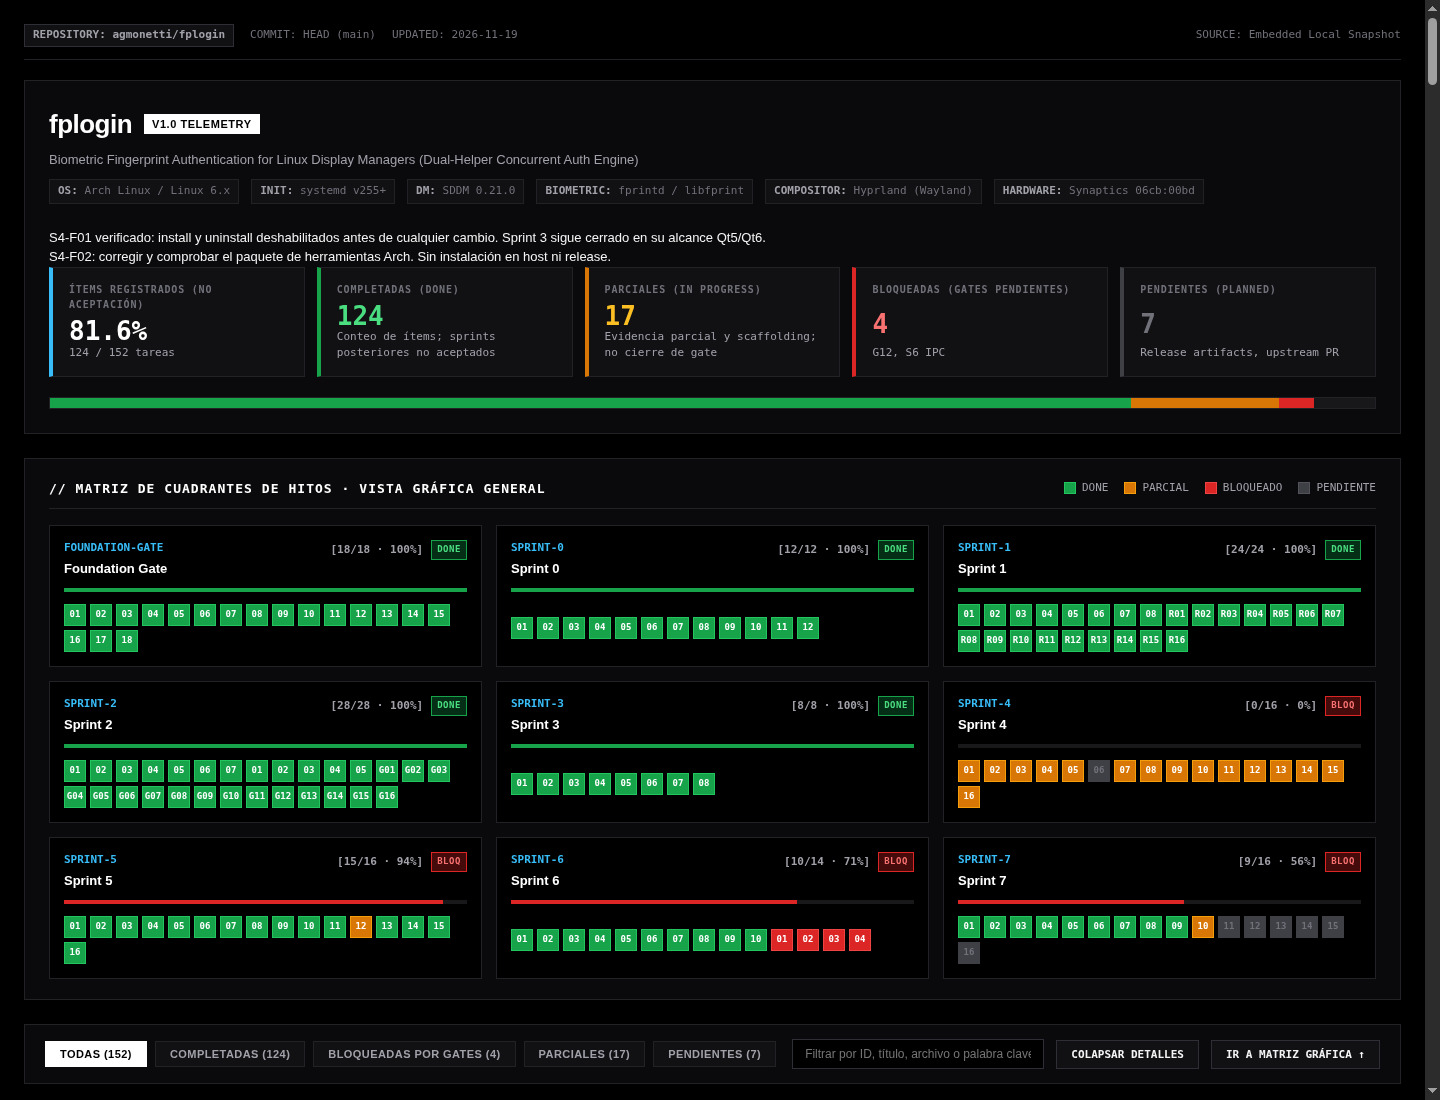
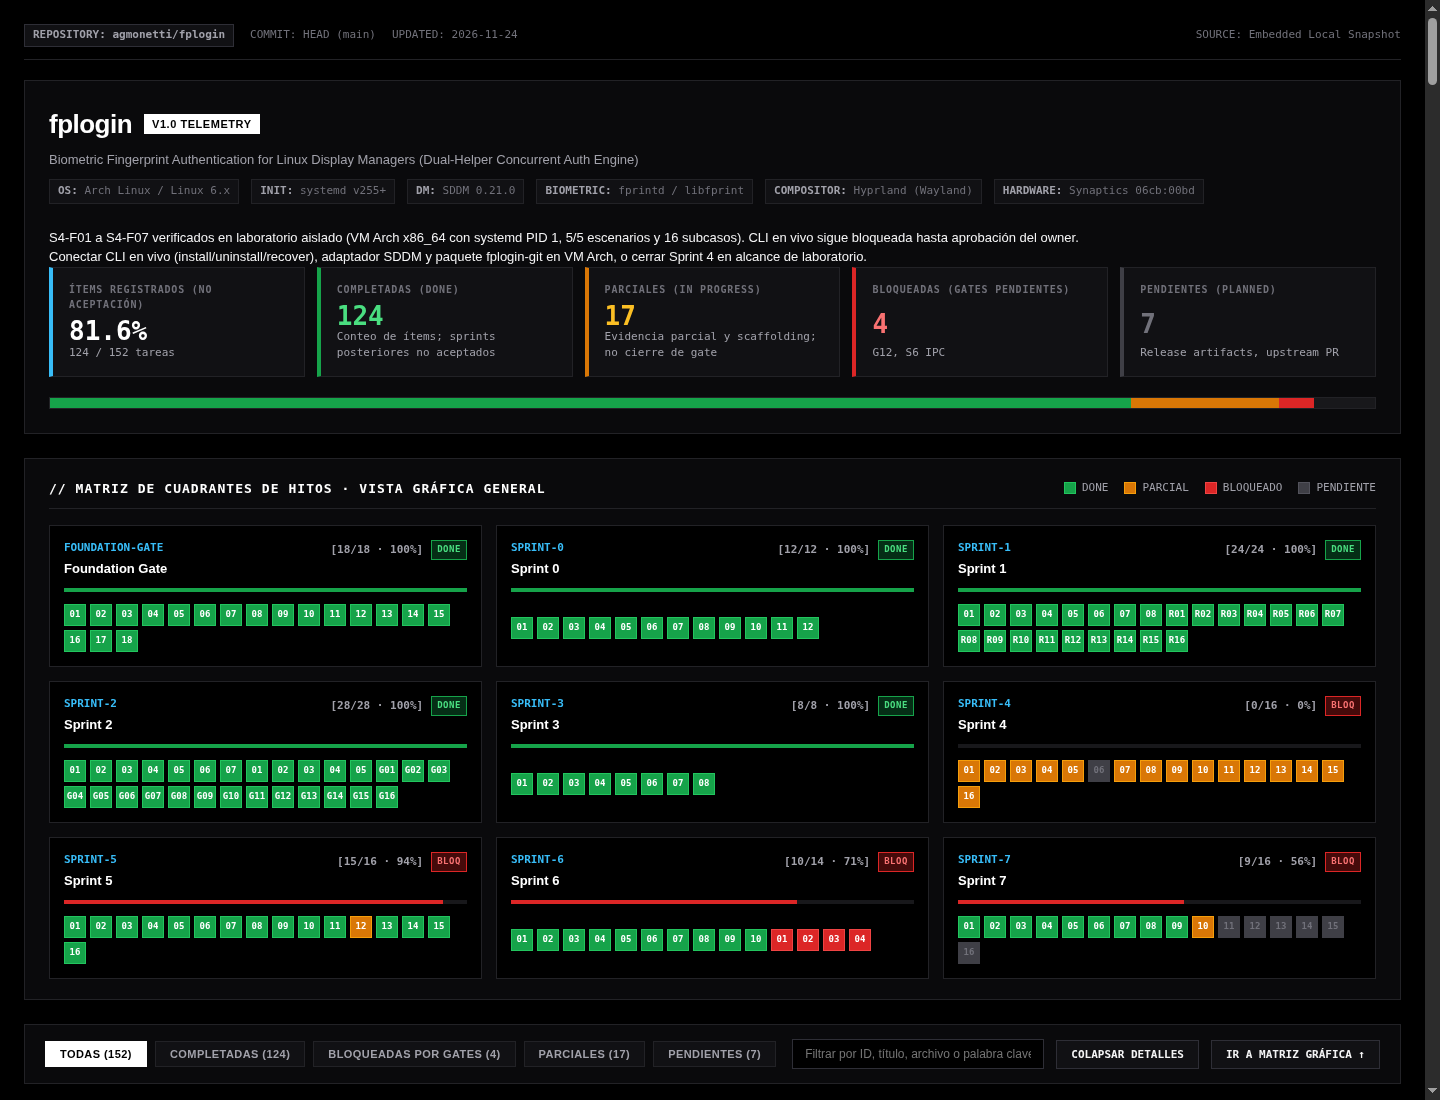
docs: align dashboard header with S4-F07 status and refresh screenshot

Changed region(s): [[0.0312, 0.2164, 0.625, 0.2473]]

diff --git a/dashboard.html b/dashboard.html
@@ -1043,11 +1043,11 @@
     "tagline": "Biometric Fingerprint Authentication for Linux Display Managers",
     "target_v1": "Arch Linux \u00b7 systemd \u00b7 SDDM 0.21.0 \u00b7 fprintd / libfprint \u00b7 Hyprland",
     "reference_hardware": "Synaptics 06cb:00bd (match-on-sensor USB)",
-    "last_updated": "2026-11-19",
+    "last_updated": "2026-11-24",
     "current_gate": "Sprint 4 (instalador transaccional)",
     "current_gate_status": "blocked",
-    "latest_achievement": "S4-F01 verificado: install y uninstall deshabilitados antes de cualquier cambio. Sprint 3 sigue cerrado en su alcance Qt5/Qt6.",
-    "next_step": "S4-F02: corregir y comprobar el paquete de herramientas Arch. Sin instalaci\u00f3n en host ni release.",
+    "latest_achievement": "S4-F01 a S4-F07 verificados en laboratorio aislado (VM Arch x86_64 con systemd PID 1, 5/5 escenarios y 16 subcasos). CLI en vivo sigue bloqueada hasta aprobaci\u00f3n del owner.",
+    "next_step": "Conectar CLI en vivo (install/uninstall/recover), adaptador SDDM y paquete fplogin-git en VM Arch, o cerrar Sprint 4 en alcance de laboratorio.",
     "summary": {
       "total_items": 152,
       "done": 124,
